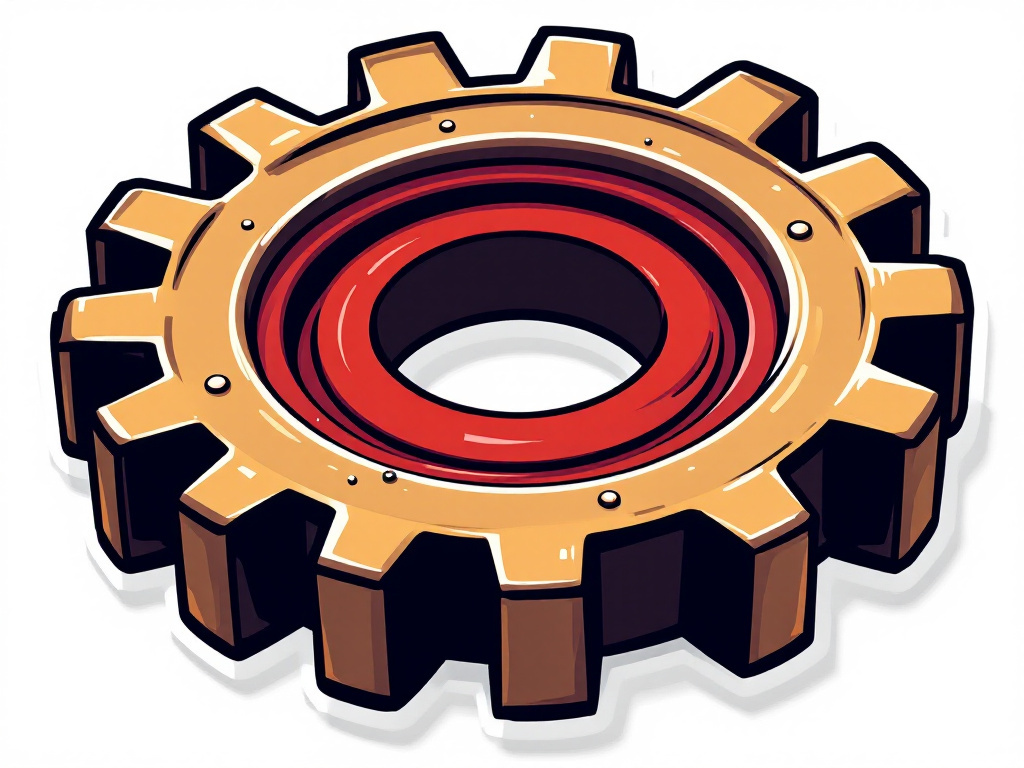
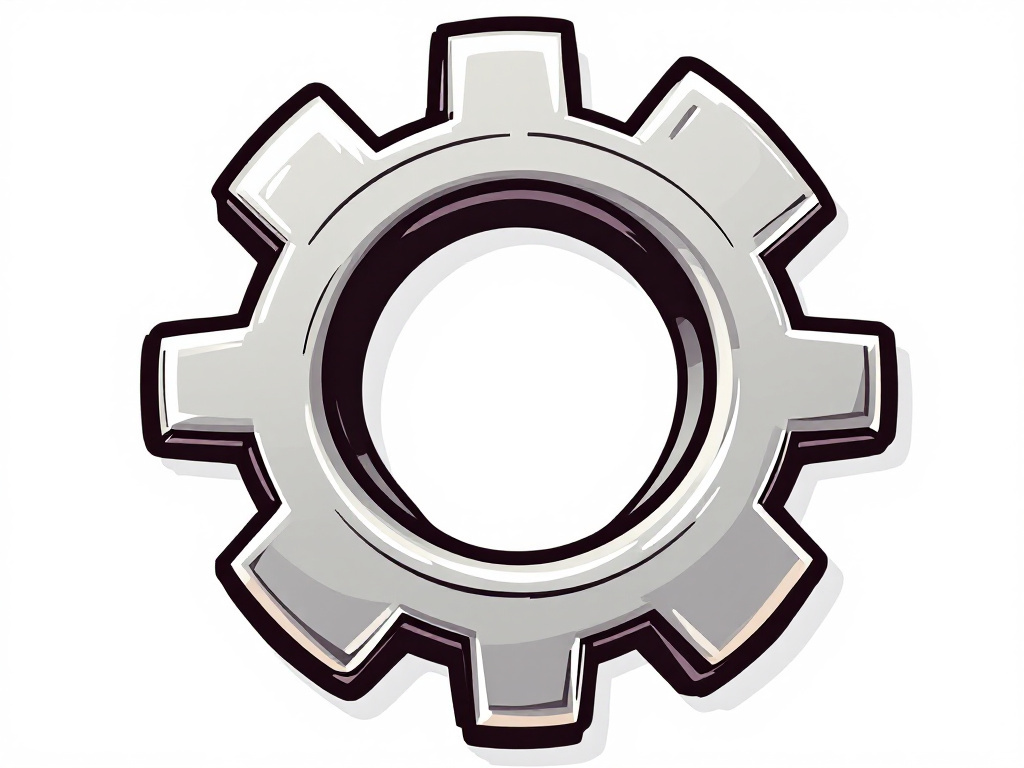
The monk's settings cog goes back to steel: the wooden one's red middle read as a flower

diff --git a/art/monk/ui/README.md b/art/monk/ui/README.md
@@ -25,8 +25,9 @@ training icons into the one icon sheet:
   it has `tab_train`, a wooden training post with a red band (`r3/tab_train_b.jpg`; the first
   try, `r3/tab_train_mannequin.jpg`, was a thin mannequin that read as a person).
 - `lock` replaces the 🔒 emoji, which every platform draws differently. `settings` replaces the ⚙
-  glyph; since 2026-10-21 (round 4, `r4/`) it is a warm wooden cog with a red lacquer ring
-  (`r4/settings.txt`), the old cold steel one kept as `r4/settings_steel.jpg`.
+  glyph. A warm wooden cog with a red lacquer ring was tried on 2026-10-21 (`r4/settings_wood.jpg`
+  from `r4/settings.txt`): its red middle read as a flower on the dark button, so the steel cog
+  stayed.
 - `dice` (2026-10-21): the honey-wood die beside the player's name, which rolls a new name; it
   replaced a die drawn in code.
 - `patrol` and `tasks` (a ticked list on a notice board) sit on the Play tab's left rail. Patrol

diff --git a/docs/design.md b/docs/design.md
@@ -621,7 +621,8 @@ running to deep orange, its word outlined, a glint sweeping across it every few 
   on screen and pulled the eye off the hero. Inside the card, only the title wears an outline.
 - Icons are all painted objects in the sticker style, one per meaning: no spell or stat icon is
   borrowed for a lobby button (the daily is a trophy, Train a wooden post, the corgi's a kettlebell).
-  The top bar's die and cog are painted too, not drawn in code or a font glyph.
+  The top bar's die and cog are painted too, not drawn in code or a font glyph; the cog stays steel
+  grey, the one thing that must read as "settings" at a glance.
 - Icons share one optical size: the sheet packer shrinks a solid picture (a book, a chest) inside
   its cell until it weighs about what a thin one does (`FILL` in `tools/pack_icons.py`), so
   every caller can size icons by their cell alone.
